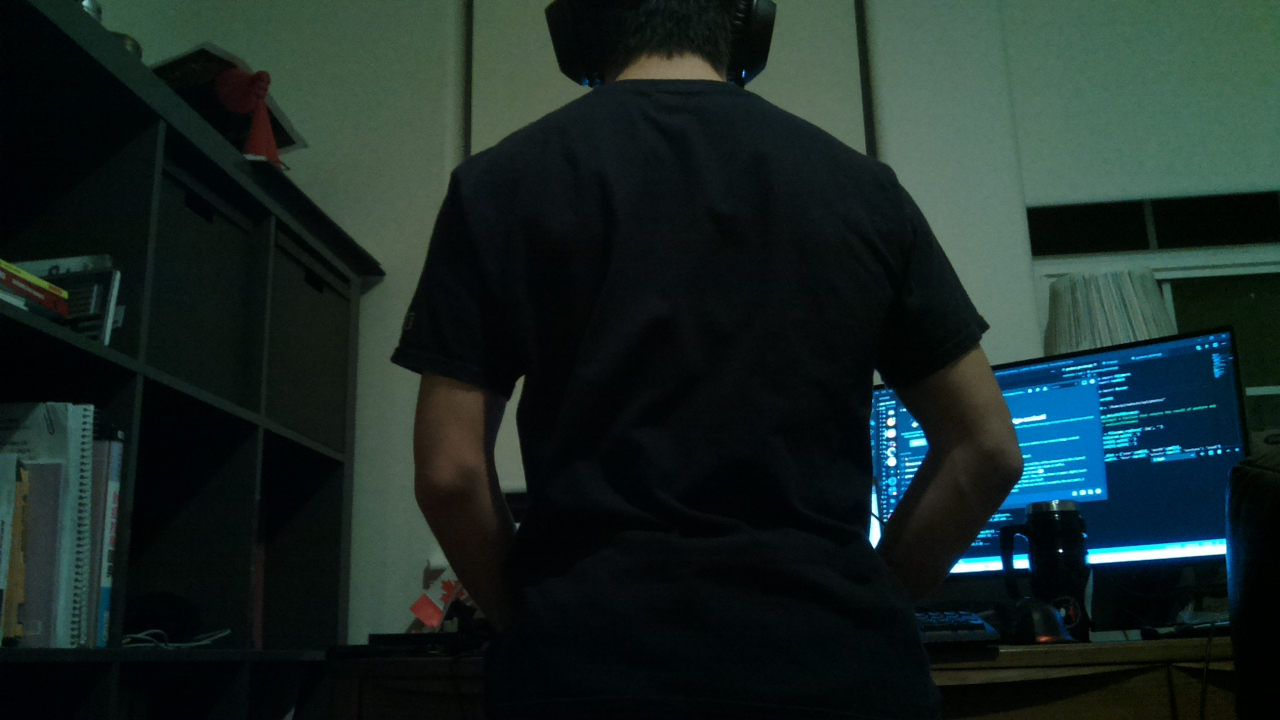
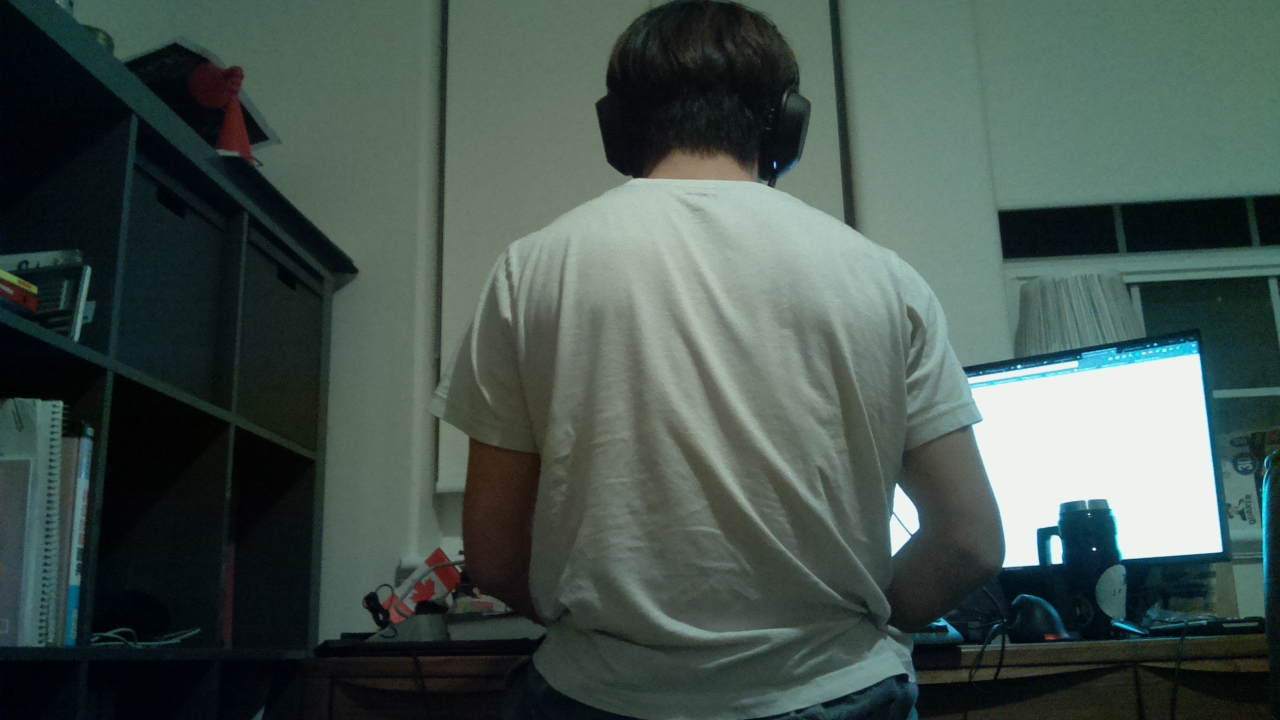
new dataset

diff --git a/model/loop.py b/model/loop.py
@@ -17,6 +17,6 @@ camera.awb_mode = 'off'
 camera.awb_gains = g
 
 # Camera warm-up time
-for i in range(20):
-    camera.capture('testing/test_{}.jpg'.format(i)) # referenced based on your working directory (/home/pi)
+for i in range(80):
+    camera.capture('photos/bad/test_{}.jpg'.format(i)) # referenced based on your working directory (/home/pi)
     sleep(0.2)
